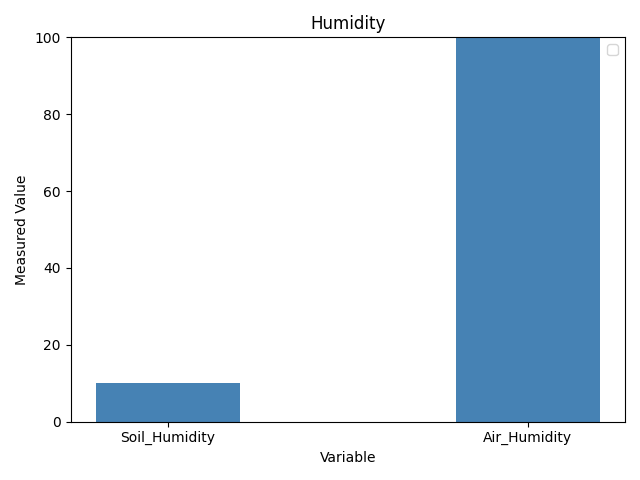
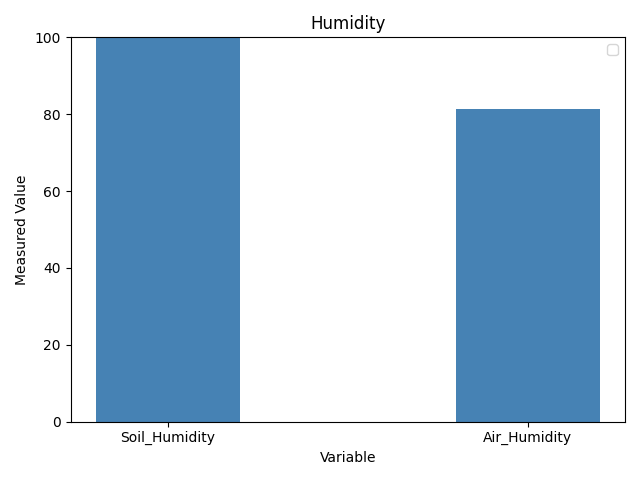
Finished DHT11 Node Code, minor corrections to Webserver

Changed region(s): [[0.125, 0.0625, 0.375, 0.8125], [0.6875, 0.0625, 0.9375, 0.25]]

diff --git a/Flask_App/App.py b/Flask_App/App.py
@@ -15,17 +15,26 @@ app = Flask(__name__, template_folder="./pages")
 def index():
     databaseURL = "https://proyecto-final-8bdcf-default-rtdb.firebaseio.com/Air_Temperature.json"
     temp = requests.get(databaseURL).content.decode("utf-8")
+    temp = requests.get(databaseURL)
+    temp = temp.json()
+    
     databaseURL = "https://proyecto-final-8bdcf-default-rtdb.firebaseio.com/Air_Humidity.json"
     hum = requests.get(databaseURL).content.decode("utf-8")
+    hum = requests.get(databaseURL)
+    hum = hum.json()
+    hum = float(hum)
     databaseURL = "https://proyecto-final-8bdcf-default-rtdb.firebaseio.com/Soil_Humidity.json"
     soil_hum = requests.get(databaseURL).content.decode("utf-8")
+    soil_hum = requests.get(databaseURL)
+    soil_hum = soil_hum.json()
+    soil_hum = float(soil_hum)
     databaseURL = "https://proyecto-final-8bdcf-default-rtdb.firebaseio.com/Control_Out.json"
     control = requests.get(databaseURL)
     control = control.json()
 
-    temp = float(temp[1:(len(temp)-1)]) #removing " "
-    hum = float(hum[1:(len(hum)-1)]) #  removing " "
-    soil_hum = float(soil_hum[1:(len(soil_hum)-1)]) #removing " "
+    # temp = float(temp[1:(len(temp)-1)]) #removing " "
+    # hum = float(hum[1:(len(hum)-1)]) #  removing " "
+    # soil_hum = float(soil_hum[1:(len(soil_hum)-1)]) #removing " "
     
     x_labels = ['Soil_Humidity', 'Air_Humidity']  # Labels for the x-axis
     y_values_1 = hum  # Y-axis values for the first bar
@@ -35,8 +44,8 @@ def index():
     index = range(len(x_labels))  # Positions of the bars on the x-axis
     fig, ax = plt.subplots()
 
-    ax.bar(0, y_values_1, bar_width, color='steelblue')
-    ax.bar(1, y_values_2, bar_width, color='steelblue')
+    ax.bar(0, y_values_2, bar_width, color='steelblue')
+    ax.bar(1, y_values_1, bar_width, color='steelblue')
     y_min = 0  # Minimum value for the Y-axis
     y_max = 100  # Maximum value for the Y-axis
     ax.set_ylim([y_min, y_max])
